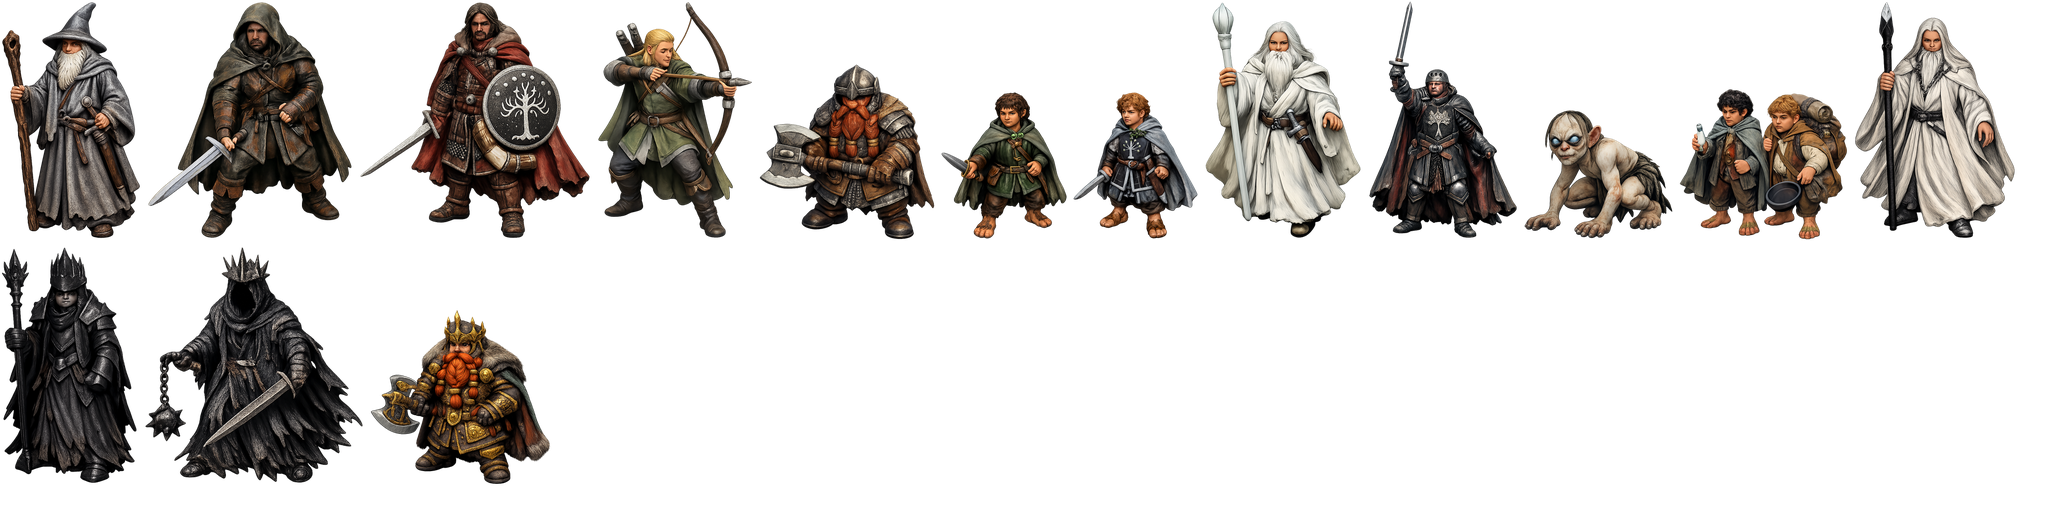
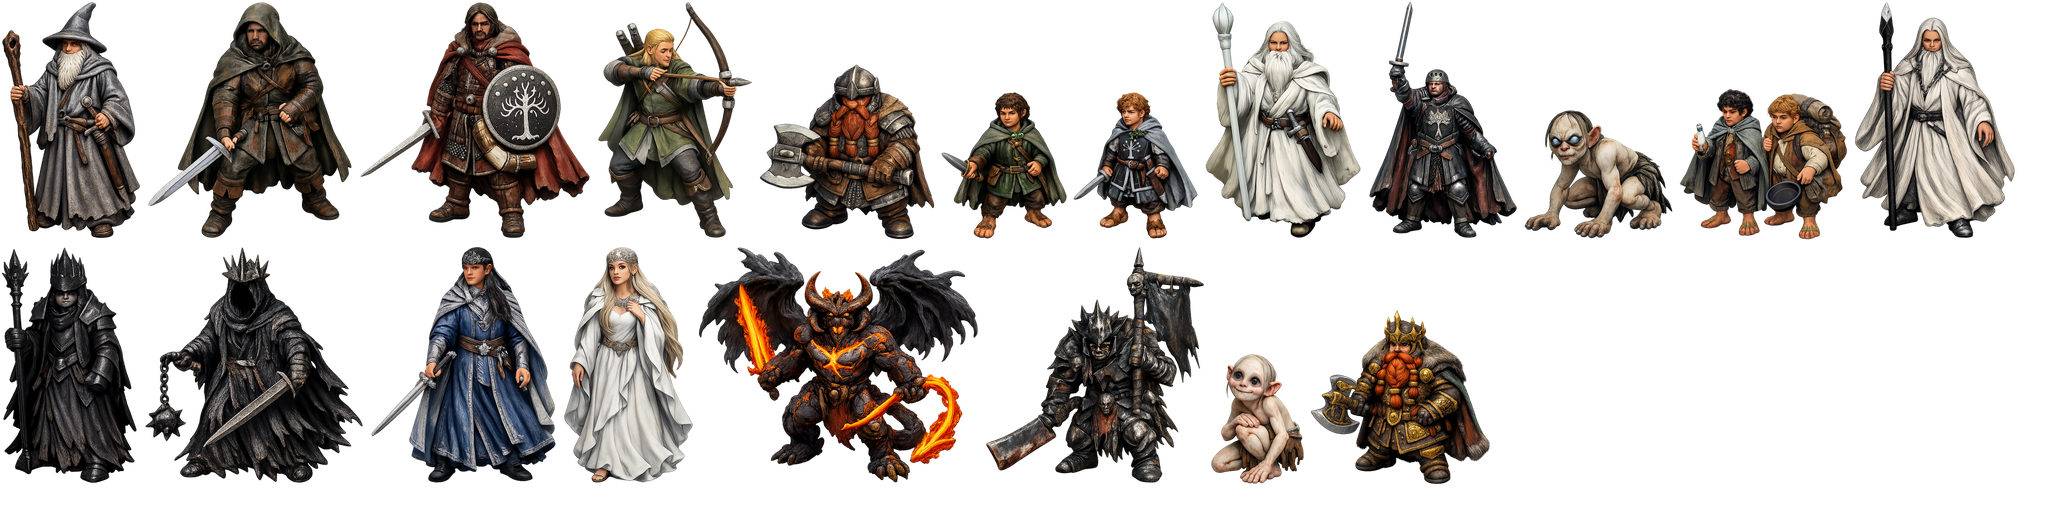
ART-06: Lords of Middle-earth art
Generated painted figures and portraits of Elrond, Galadriel, the Balrog, Gothmog
and Sméagol and rebuilt the character and portrait atlases; no Lords character
shows the silhouette any more. The dice, Rings and Council art came with UI-267
to UI-270.

Changed region(s): [[0.1562, 0.4688, 0.75, 0.9375]]

diff --git a/unity/Wotr.Client/Assets/Wotr/Tests/Editor/CharacterFigureArtTests.cs b/unity/Wotr.Client/Assets/Wotr/Tests/Editor/CharacterFigureArtTests.cs
@@ -7,7 +7,8 @@ using Wotr.Contracts;
 
 namespace Wotr.EditorTests
 {
-    // ART-02: every base character has its own figure and painted portrait; expansion characters keep UI-120's.
+    // ART-02: every base character has its own figure and painted portrait; expansion characters keep UI-120's until
+    // their art is generated (ART-05, ART-06).
     public sealed class CharacterFigureArtTests
     {
         private static readonly string[] BaseCharacters =
@@ -16,12 +17,24 @@ namespace Wotr.EditorTests
             "gollum", "ring-bearers", "saruman", "mouth-of-sauron", "witch-king"
         };
 
+        // ART-06: the Lords of Middle-earth characters with their own art (the Mouth's and the Witch-king's versions keep
+        // the base figures, as every version does).
+        private static readonly string[] LordsCharacters = { "elrond", "galadriel", "balrog", "gothmog", "smeagol" };
+
         [Test]
         public void EveryBaseCharacterHasItsOwnFigure()
         {
-            // ART-05: the expansions' own characters join the atlas as their art is generated (Fate's Dwarven Lord now).
-            CollectionAssert.AreEquivalent(BaseCharacters.Append("gimli-dwarven-lord"), FigureArtwork.Characters.Names);
+            // ART-05/ART-06: the expansions' own characters join the atlas as their art is generated (Fate's Dwarven
+            // Lord, the Lords characters).
+            CollectionAssert.AreEquivalent(BaseCharacters.Append("gimli-dwarven-lord").Concat(LordsCharacters), FigureArtwork.Characters.Names);
             Assert.AreEqual("gimli-dwarven-lord", FigureAppearances.Character("fate.character.gimli-dwarven-lord", Side.FreePeoples).Key);
+            foreach (var key in LordsCharacters)
+            {
+                var side = key is "balrog" or "gothmog" ? Side.Shadow : Side.FreePeoples;
+                var art = FigureAppearances.Character("lords.character." + key, side);
+                Assert.AreEqual(key, art.Key);
+                Assert.AreSame(FigureArtwork.Characters.Sprite(key), FigureArtwork.Sprite(art), key);
+            }
             foreach (var key in BaseCharacters)
             {
                 var side = key is "saruman" or "mouth-of-sauron" or "witch-king" ? Side.Shadow : Side.FreePeoples;
@@ -34,7 +47,7 @@ namespace Wotr.EditorTests
         }
 
         [Test]
-        public void BaseCharactersHavePaintedPortraitsAndExpansionsKeepTheirOwn()
+        public void BaseAndLordsCharactersHavePaintedPortraits()
         {
             var painted = Resources.Load<Texture2D>(PortraitArtwork.BasePath);
             Assert.IsNotNull(painted);
@@ -44,7 +57,10 @@ namespace Wotr.EditorTests
             foreach (var key in BaseCharacters)
                 Assert.AreSame(painted, PortraitArtwork.Sprite("base.character." + key).texture, key);
             Assert.AreSame(painted, PortraitArtwork.Sprite("lords.character.gimli").texture, "Versions share the portrait.");
-            Assert.AreNotSame(painted, PortraitArtwork.Sprite("base.character.galadriel").texture, "Expansions keep UI-120.");
+            foreach (var key in LordsCharacters)
+                Assert.AreSame(painted, PortraitArtwork.Sprite("lords.character." + key).texture, key + " has its painted portrait.");
+            // Every character with a UI-120 portrait is painted now; one whose art is not generated yet has none.
+            Assert.IsNull(PortraitArtwork.Sprite("kings.character.black-serpent"));
         }
     }
 }

diff --git a/scripts/build_figure_art.py b/scripts/build_figure_art.py
@@ -25,7 +25,7 @@ WIDTH = 2048
 # Relative height of a figure in its cell, so a regular stands lower than its elite and a hobbit lower than a
 # man wherever the cell is shown at one size; the figure stands on the cell's bottom edge.
 STATURE = {'-regular': 0.78, '-leader': 0.88, 'merry': 0.62, 'pippin': 0.62, 'ring-bearers': 0.64, 'gollum': 0.55,
-           'gimli': 0.74, 'gimli-dwarven-lord': 0.74}
+           'gimli': 0.74, 'gimli-dwarven-lord': 0.74, 'smeagol': 0.55}
 # style -> (atlas name, cell height, widest cell)
 ATLASES = {
     'unit': ('units-v3', 240, 400),
@@ -121,7 +121,7 @@ def build():
 
 def report(outputs, sources, pending):
     return {
-        'version': 'art-figures-1', 'tasks': ['ART-01', 'ART-02', 'ART-04', 'ART-05'],
+        'version': 'art-figures-1', 'tasks': ['ART-01', 'ART-02', 'ART-04', 'ART-05', 'ART-06'],
         'sources': {**sources, 'graphicalassets/figures/v3/prompts.json': sha((SOURCE / 'prompts.json').read_bytes()),
                     'scripts/build_figure_art.py': sha(Path(__file__).read_bytes())},
         'tools': {'Pillow': PIL.__version__},

diff --git a/docs/ui/UX_SPEC.md b/docs/ui/UX_SPEC.md
@@ -1248,6 +1248,16 @@ with its control, settlement and points. Tests: `MapLandmarksTests.AFateGameDraw
 `RegionVictoryTextTests`, `VictoryPanelNetworkTests.FateNewCitiesAndKingsKeepTheirAuthoritativeScoringOrigins` (with a
 screenshot of Erebor), `ConfigurationLayoutTests` (all 93 configurations in four layouts).
 
+## Lords of Middle-earth art — ART-06 (2026-10-19)
+
+Generated with `graphicalassets/figures/v3/generate.py` (prompts in `prompts.json`) and built with
+`scripts/build_figure_art.py`: the painted figures and portraits of Elrond, Galadriel, the Balrog, Gothmog and Sméagol
+(stature 0.55, as Gollum) join `characters-v1` and `battle-portraits-v2`; the Mouth's and the Witch-king's Lords
+versions keep their base art, as every version does (PortraitArtwork.Key). The rest of the module's art came with its
+UI tasks: the special dice bodies, origin emblems and Remove star (UI-267), the three named Rings (UI-268), the
+versions badge and Guide crown (UI-269), the Council tokens, alternate mark and Fellowship Box icon (UI-270). No Lords
+character shows the silhouette any more. Tests: `CharacterFigureArtTests`, `PortraitArtworkTests`, `UiArtKitTests`.
+
 ## Fate of Erebor art — ART-05 (2026-10-19)
 
 Generated and built with the existing pipelines: the Dwarven Lord Gimli's figure and portrait (`gimli-dwarven-lord`
